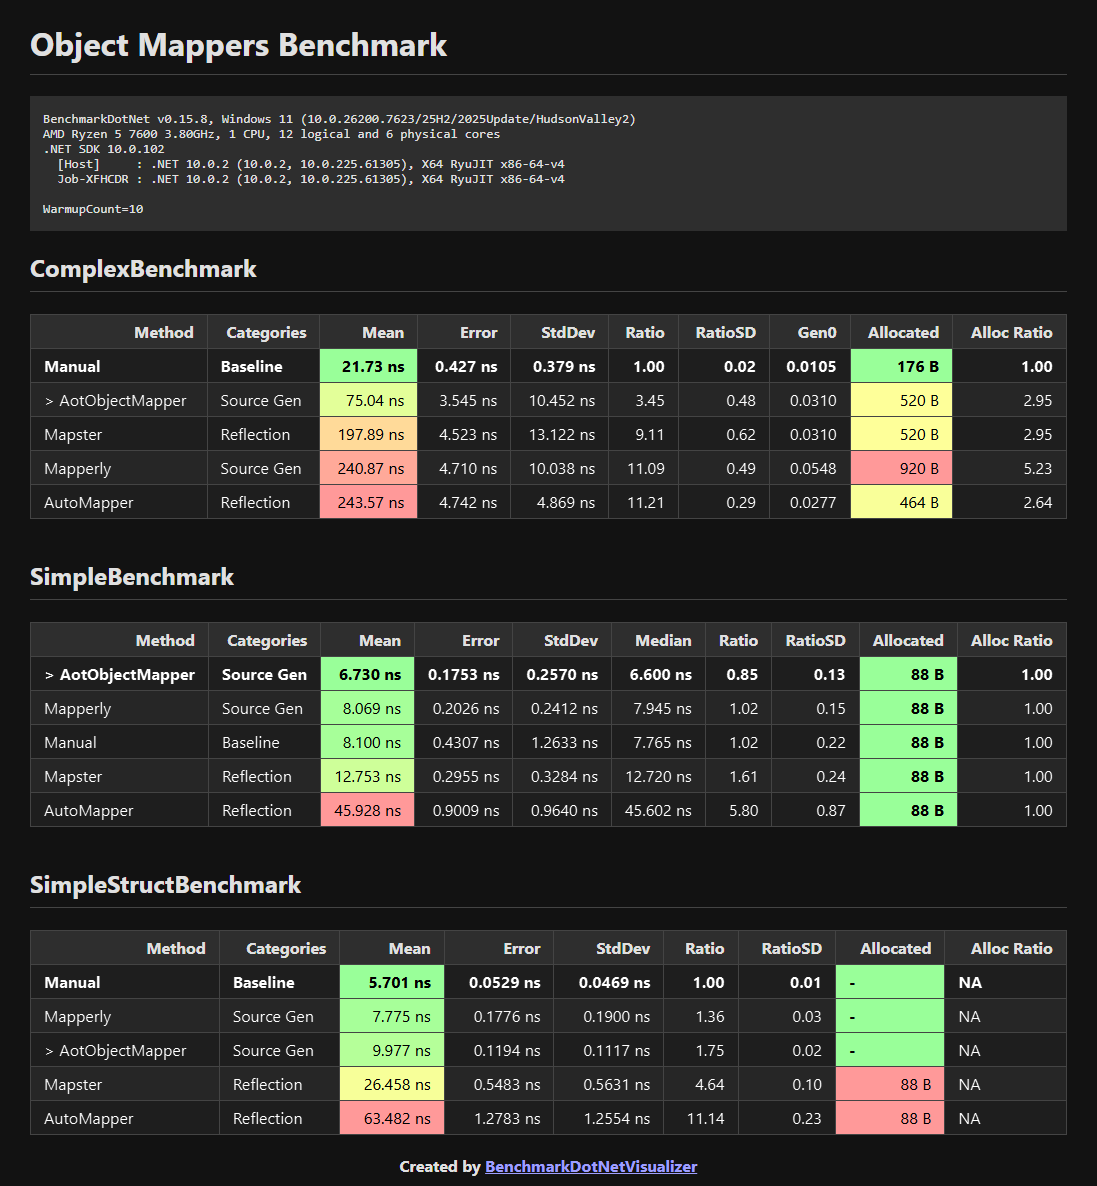
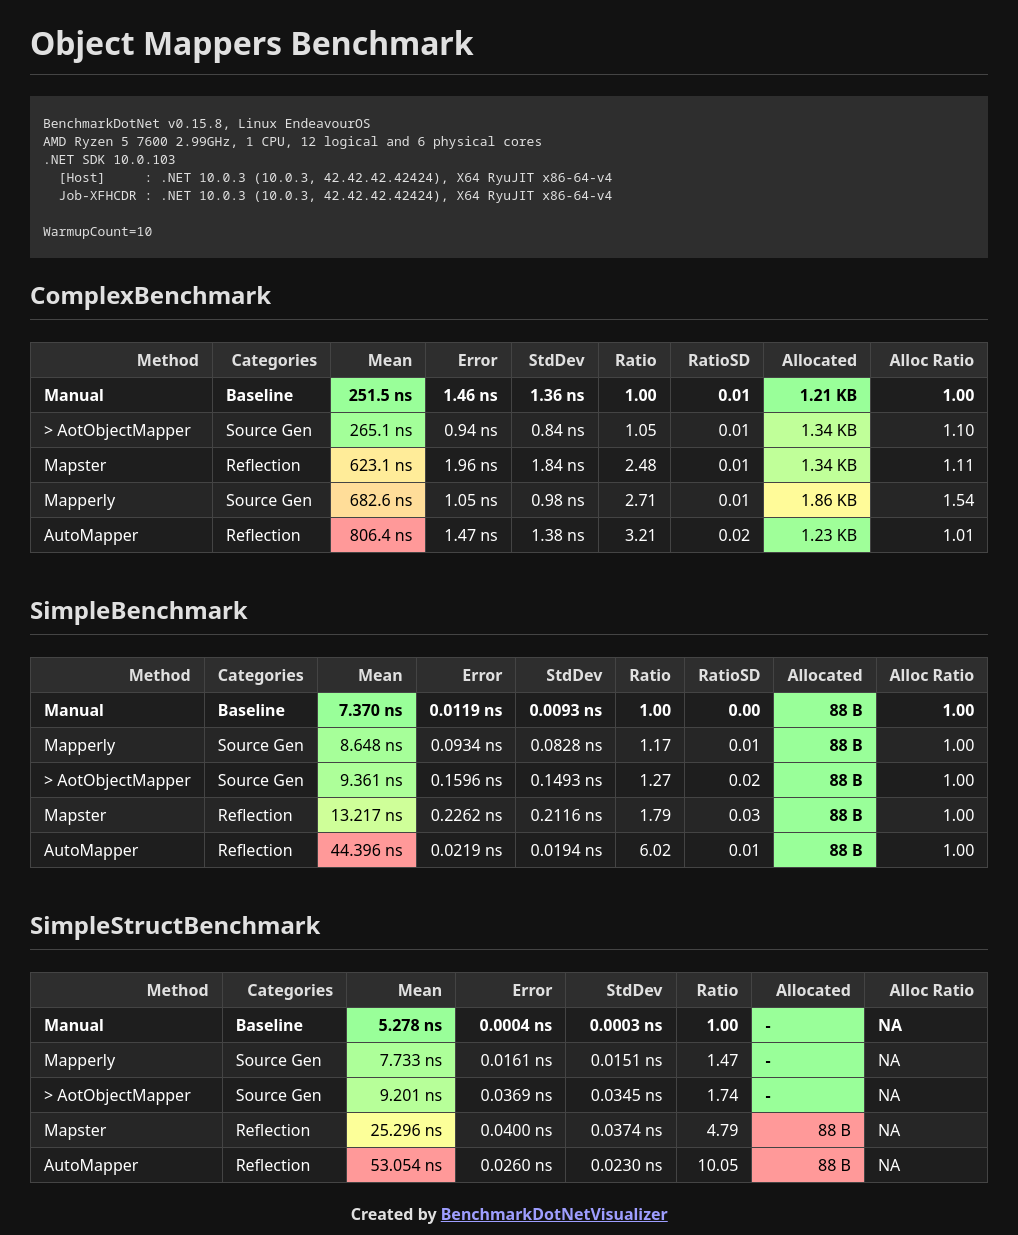
Update benchmarks (#42)
* Started updating benchmarks

* Remove unused constant from ComplexBenchmark.AOM implementation

* Remove Diagnostics.cs

* Update BenchmarkSummary.png

Changed region(s): [[0.0305, 0.468, 0.9745, 0.9983], [0.0305, 0.0, 0.9745, 0.468]]

diff --git a/Benchmarks/MappingBenchmarks/ComplexBenchmark.cs b/Benchmarks/MappingBenchmarks/ComplexBenchmark.cs
@@ -7,7 +7,7 @@ using MappingBenchmarks.Models;
 
 namespace MappingBenchmarks;
 
-[MemoryDiagnoser(displayGenColumns: true)]
+[MemoryDiagnoser(displayGenColumns: false)]
 [Orderer(SummaryOrderPolicy.FastestToSlowest)]
 [CategoriesColumn]
 public partial class ComplexBenchmark
@@ -28,23 +28,35 @@ public partial class ComplexBenchmark
                 Street = "Elm Street",
                 City = "Somewhere",
                 Country = "America",
-                Resident = null!,
             },
-            Employer = new Company()
-            {
-                Id = 5,
-                Name = "Company inc.",
-                Metadata = new CompanyMetadata()
-                {
-                    AnnualRevenue = 5,
-                    FoundedAt = new DateTime(2026, 1, 1, 0, 0, 0),
-                },
-                CEO = null!,
-            },
+            Employer = null!,
         };
 
-        _source.Address.Resident = _source;
-        _source.Employer.CEO = _source;
+        var company = new Company()
+        {
+            Id   = 5,
+            Name = "Company inc.",
+            Metadata =
+                new CompanyMetadata()
+                {
+                    AnnualRevenue = 5,
+                    FoundedAt     = new DateTime(2026, 1, 1, 0, 0, 0),
+                },
+            CEO = _source,
+        };
+
+        var secondAddress = new Address() { Street = "Main street", City = "Main city", Country = "Italy?" };
+
+        company.CEO      = _source;
+        _source.Employer = company;
+        company.Employees =
+        [
+            _source,
+            new Person { Id = 2, FirstName = "1", LastName = "1", Address = secondAddress, Employer  = company, },
+            new Person { Id = 3, FirstName = "2", LastName = "2", Address = secondAddress, Employer  = company, },
+            new Person { Id = 4, FirstName = "3", LastName = "3", Address = secondAddress, Employer  = company, },
+            new Person { Id = 5, FirstName = "4", LastName = "4", Address = secondAddress, Employer  = company, },
+        ];
 
         _mapperlyComplexMapper = new MapperlyComplexMapper();
         ConfigureAutoMapper();
@@ -54,12 +66,37 @@ public partial class ComplexBenchmark
 
         var jsonOpts = new JsonSerializerOptions() { WriteIndented = true, ReferenceHandler = ReferenceHandler.Preserve };
 
-        var manual   = JsonSerializer.Serialize(Manual(),          jsonOpts);
+        Console.WriteLine("Verifing mappers...");
+
+        var manual   = JsonSerializer.Serialize(Manual(), jsonOpts);
+#if Debug
+        Console.WriteLine("Manual:");
+        Console.WriteLine(manual);
+#endif
 
         var aot      = JsonSerializer.Serialize(AotObjectMapper(), jsonOpts);
-        var mapperly = JsonSerializer.Serialize(Mapperly(),        jsonOpts);
-        var auto     = JsonSerializer.Serialize(AutoMapper(),      jsonOpts);
-        var mapster     = JsonSerializer.Serialize(Mapster(),      jsonOpts);
+#if Debug
+        Console.WriteLine("aot:");
+        Console.WriteLine(aot);
+#endif
+
+        var mapperly = JsonSerializer.Serialize(Mapperly(), jsonOpts);
+#if Debug
+        Console.WriteLine("mapperly:");
+        Console.WriteLine(mapperly);
+#endif
+
+        var auto     = JsonSerializer.Serialize(AutoMapper(), jsonOpts);
+#if Debug
+        Console.WriteLine("auto:");
+        Console.WriteLine(auto);
+#endif
+
+        var mapster  = JsonSerializer.Serialize(Mapster(), jsonOpts);
+#if Debug
+        Console.WriteLine("mapster:");
+        Console.WriteLine(mapster);
+#endif
 
 #pragma warning disable LOCAT010
         if (aot != manual)

diff --git a/Benchmarks/MappingBenchmarks/ComplexBenchmark.AOM.cs b/Benchmarks/MappingBenchmarks/ComplexBenchmark.AOM.cs
@@ -5,39 +5,33 @@ using MappingBenchmarks.Models;
 
 namespace MappingBenchmarks;
 
-[GenerateMapper(MappingOptions.PreserveReferences)]
-[Map<Person, PersonDto>]
-[UseMap<AotObjectMapperCompanyMapper, Company, CompanyDto>]
-public partial class AotObjectMapperPersonMapper
-{
-    [ForMember<Person, PersonDto>(nameof(PersonDto.Street))]
-    public static string GetStreet(Person source) => source.Address.Street;
-
-    [ForMember<Person, PersonDto>(nameof(PersonDto.City))]
-    public static string GetCity(Person source) => source.Address.City;
-
-    [ForMember<Person, PersonDto>(nameof(PersonDto.Country))]
-    public static string GetCountry(Person source) => source.Address.Country;
-
-    [ForMember<Person, PersonDto>(nameof(PersonDto.FullName))]
-    public static string GetFullName(Person source) => $"{source.FirstName} {source.LastName}";
-}
-
-
-[GenerateMapper(MappingOptions.PreserveReferences)]
-[Map<Company, CompanyDto>]
-[UseMap<AotObjectMapperPersonMapper, Person, PersonDto>]
-public partial class AotObjectMapperCompanyMapper
-{
-    [ForMember<Company, CompanyDto>(nameof(CompanyDto.FoundedAt))]
-    public static DateTime GetFoundedAt(Company source) => source.Metadata.FoundedAt;
-
-    [ForMember<Company, CompanyDto>(nameof(CompanyDto.AnnualRevenue))]
-    public static decimal GetAnnualRevenue(Company source) => source.Metadata.AnnualRevenue;
-}
-
 public partial class ComplexBenchmark
 {
+    [GenerateMapper(MappingOptions.PreserveReferences)]
+    [Map<Person, PersonDto>]
+    [Map<Company, CompanyDto>]
+    public partial class AotObjectMapperPersonMapper
+    {
+        [ForMember<Person, PersonDto>(nameof(PersonDto.Street))]
+        public static string GetStreet(Person source) => source.Address.Street;
+
+        [ForMember<Person, PersonDto>(nameof(PersonDto.City))]
+        public static string GetCity(Person source) => source.Address.City;
+
+        [ForMember<Person, PersonDto>(nameof(PersonDto.Country))]
+        public static string GetCountry(Person source) => source.Address.Country;
+
+        [ForMember<Person, PersonDto>(nameof(PersonDto.FullName))]
+        public static string GetFullName(Person source) => $"{source.FirstName} {source.LastName}";
+
+
+        [ForMember<Company, CompanyDto>(nameof(CompanyDto.FoundedAt))]
+        public static DateTime GetFoundedAt(Company source) => source.Metadata.FoundedAt;
+
+        [ForMember<Company, CompanyDto>(nameof(CompanyDto.AnnualRevenue))]
+        public static decimal GetAnnualRevenue(Company source) => source.Metadata.AnnualRevenue;
+    }
+
     [Benchmark(Description = "> AotObjectMapper"), BenchmarkCategory("Source Gen"), WarmupCount(10)]
     public PersonDto AotObjectMapper()
     {

diff --git a/Benchmarks/MappingBenchmarks/ComplexBenchmark.Baseline.cs b/Benchmarks/MappingBenchmarks/ComplexBenchmark.Baseline.cs
@@ -5,27 +5,59 @@ namespace MappingBenchmarks;
 
 public partial class ComplexBenchmark
 {
+    public class ManualMapper
+    {
+        private Dictionary<object, object> _cache = [];
+
+        public PersonDto MapPerson(Person source)
+        {
+            if (_cache.TryGetValue(source, out var existing))
+                return (PersonDto)existing;
+
+            var dto = new PersonDto
+            {
+                Id       = source.Id,
+                FullName = $"{source.FirstName} {source.LastName}",
+                Street   = source.Address.Street,
+                City     = source.Address.City,
+                Country  = source.Address.Country
+            };
+
+            _cache[source] = dto;
+
+            dto.Employer = MapCompany(source.Employer);
+
+            return dto;
+        }
+
+        public CompanyDto MapCompany(Company source)
+        {
+            if (_cache.TryGetValue(source, out var existing))
+                return (CompanyDto)existing;
+
+            var dto = new CompanyDto
+            {
+                Id            = source.Id,
+                Name          = source.Name,
+                FoundedAt     = source.Metadata.FoundedAt,
+                AnnualRevenue = source.Metadata.AnnualRevenue
+            };
+
+            _cache[source] = dto;
+
+            dto.CEO = MapPerson(source.CEO);
+
+            dto.Employees = source.Employees.Select(MapPerson).ToArray();
+
+            return dto;
+        }
+    }
+
     [Benchmark(Baseline = true), BenchmarkCategory("Baseline"), WarmupCount(10)]
     public PersonDto Manual()
     {
-        var dto = new PersonDto
-        {
-            Id       = _source.Id,
-            FullName = $"{_source.FirstName} {_source.LastName}",
-            Street   = _source.Address.Street,
-            City     = _source.Address.City,
-            Country  = _source.Address.Country,
-            Employer = new CompanyDto()
-            {
-                Id            = _source.Employer.Id,
-                Name          = _source.Employer.Name,
-                AnnualRevenue = _source.Employer.Metadata.AnnualRevenue,
-                FoundedAt     = _source.Employer.Metadata.FoundedAt,
-                CEO           = null!,
-            },
-        };
-
-        dto.Employer.CEO = dto;
+        var mapper = new ManualMapper();
+        var dto = mapper.MapPerson(_source);
 
         _consumer.Consume(dto);
         return dto;

diff --git a/Benchmarks/MappingBenchmarks/Models/Complex.cs b/Benchmarks/MappingBenchmarks/Models/Complex.cs
@@ -25,9 +25,6 @@ public class Address
     public string Street  { get; set; } = string.Empty;
     public string City    { get; set; } = string.Empty;
     public string Country { get; set; } = string.Empty;
-
-    // Circular reference back to Person
-    public Person Resident { get; set; } = null!;
 }
 
 public class Company
@@ -40,6 +37,8 @@ public class Company
 
     // Circular reference back to Person
     public Person CEO { get; set; } = null!;
+
+    public IEnumerable<Person> Employees { get; set; } = null!;
 }
 
 public class CompanyMetadata
@@ -75,4 +74,6 @@ public class CompanyDto
     public decimal  AnnualRevenue { get; set; }
 
     public PersonDto CEO { get; set; } = null!;
+
+    public PersonDto[] Employees { get; set; } = null!;
 }

diff --git a/Benchmarks/MappingBenchmarks/ComplexBenchmark.Mapperly.cs b/Benchmarks/MappingBenchmarks/ComplexBenchmark.Mapperly.cs
@@ -12,6 +12,7 @@ public partial class MapperlyComplexMapper
     [MapProperty(nameof(@Person.Address.City),   nameof(PersonDto.City))]
     [MapProperty(nameof(@Person.Address.Country), nameof(PersonDto.Country))]
     public partial PersonDto MapPerson(Person source);
+
     public string CombineFullName(Person source) => $"{source.FirstName} {source.LastName}";
 
     [MapProperty(nameof(@Company.Metadata.FoundedAt),     nameof(CompanyDto.FoundedAt))]

diff --git a/Benchmarks/MappingBenchmarks/BenchmarkDotNet.Artifacts/results/MappingBenchmarks.SimpleBenchmark-report-github.md b/Benchmarks/MappingBenchmarks/BenchmarkDotNet.Artifacts/results/MappingBenchmarks.SimpleBenchmark-report-github.md
@@ -1,18 +1,18 @@
 ```
 
-BenchmarkDotNet v0.15.8, Windows 11 (10.0.26200.7623/25H2/2025Update/HudsonValley2)
-AMD Ryzen 5 7600 3.80GHz, 1 CPU, 12 logical and 6 physical cores
-.NET SDK 10.0.102
-  [Host]     : .NET 10.0.2 (10.0.2, 10.0.225.61305), X64 RyuJIT x86-64-v4
-  Job-XFHCDR : .NET 10.0.2 (10.0.2, 10.0.225.61305), X64 RyuJIT x86-64-v4
+BenchmarkDotNet v0.15.8, Linux EndeavourOS
+AMD Ryzen 5 7600 2.99GHz, 1 CPU, 12 logical and 6 physical cores
+.NET SDK 10.0.103
+  [Host]     : .NET 10.0.3 (10.0.3, 42.42.42.42424), X64 RyuJIT x86-64-v4
+  Job-XFHCDR : .NET 10.0.3 (10.0.3, 42.42.42.42424), X64 RyuJIT x86-64-v4
 
 WarmupCount=10  
 
 ```
-| Method              | Categories | Mean      | Error     | StdDev    | Median    | Ratio | RatioSD | Allocated | Alloc Ratio |
-|-------------------- |----------- |----------:|----------:|----------:|----------:|------:|--------:|----------:|------------:|
-| &#39;&gt; AotObjectMapper&#39; | Source Gen |  6.730 ns | 0.1753 ns | 0.2570 ns |  6.600 ns |  0.85 |    0.13 |      88 B |        1.00 |
-| Mapperly            | Source Gen |  8.069 ns | 0.2026 ns | 0.2412 ns |  7.945 ns |  1.02 |    0.15 |      88 B |        1.00 |
-| Manual              | Baseline   |  8.100 ns | 0.4307 ns | 1.2633 ns |  7.765 ns |  1.02 |    0.22 |      88 B |        1.00 |
-| Mapster             | Reflection | 12.753 ns | 0.2955 ns | 0.3284 ns | 12.720 ns |  1.61 |    0.24 |      88 B |        1.00 |
-| AutoMapper          | Reflection | 45.928 ns | 0.9009 ns | 0.9640 ns | 45.602 ns |  5.80 |    0.87 |      88 B |        1.00 |
+| Method              | Categories | Mean      | Error     | StdDev    | Ratio | RatioSD | Allocated | Alloc Ratio |
+|-------------------- |----------- |----------:|----------:|----------:|------:|--------:|----------:|------------:|
+| Manual              | Baseline   |  7.370 ns | 0.0119 ns | 0.0093 ns |  1.00 |    0.00 |      88 B |        1.00 |
+| Mapperly            | Source Gen |  8.648 ns | 0.0934 ns | 0.0828 ns |  1.17 |    0.01 |      88 B |        1.00 |
+| &#39;&gt; AotObjectMapper&#39; | Source Gen |  9.361 ns | 0.1596 ns | 0.1493 ns |  1.27 |    0.02 |      88 B |        1.00 |
+| Mapster             | Reflection | 13.217 ns | 0.2262 ns | 0.2116 ns |  1.79 |    0.03 |      88 B |        1.00 |
+| AutoMapper          | Reflection | 44.396 ns | 0.0219 ns | 0.0194 ns |  6.02 |    0.01 |      88 B |        1.00 |

diff --git a/Benchmarks/MappingBenchmarks/BenchmarkDotNet.Artifacts/results/MappingBenchmarks.ComplexBenchmark-report-github.md b/Benchmarks/MappingBenchmarks/BenchmarkDotNet.Artifacts/results/MappingBenchmarks.ComplexBenchmark-report-github.md
@@ -1,18 +1,18 @@
 ```
 
-BenchmarkDotNet v0.15.8, Windows 11 (10.0.26200.7623/25H2/2025Update/HudsonValley2)
-AMD Ryzen 5 7600 3.80GHz, 1 CPU, 12 logical and 6 physical cores
-.NET SDK 10.0.102
-  [Host]     : .NET 10.0.2 (10.0.2, 10.0.225.61305), X64 RyuJIT x86-64-v4
-  Job-XFHCDR : .NET 10.0.2 (10.0.2, 10.0.225.61305), X64 RyuJIT x86-64-v4
+BenchmarkDotNet v0.15.8, Linux EndeavourOS
+AMD Ryzen 5 7600 2.99GHz, 1 CPU, 12 logical and 6 physical cores
+.NET SDK 10.0.103
+  [Host]     : .NET 10.0.3 (10.0.3, 42.42.42.42424), X64 RyuJIT x86-64-v4
+  Job-XFHCDR : .NET 10.0.3 (10.0.3, 42.42.42.42424), X64 RyuJIT x86-64-v4
 
 WarmupCount=10  
 
 ```
-| Method              | Categories | Mean      | Error    | StdDev    | Ratio | RatioSD | Gen0   | Allocated | Alloc Ratio |
-|-------------------- |----------- |----------:|---------:|----------:|------:|--------:|-------:|----------:|------------:|
-| Manual              | Baseline   |  21.73 ns | 0.427 ns |  0.379 ns |  1.00 |    0.02 | 0.0105 |     176 B |        1.00 |
-| &#39;&gt; AotObjectMapper&#39; | Source Gen |  75.04 ns | 3.545 ns | 10.452 ns |  3.45 |    0.48 | 0.0310 |     520 B |        2.95 |
-| Mapster             | Reflection | 197.89 ns | 4.523 ns | 13.122 ns |  9.11 |    0.62 | 0.0310 |     520 B |        2.95 |
-| Mapperly            | Source Gen | 240.87 ns | 4.710 ns | 10.038 ns | 11.09 |    0.49 | 0.0548 |     920 B |        5.23 |
-| AutoMapper          | Reflection | 243.57 ns | 4.742 ns |  4.869 ns | 11.21 |    0.29 | 0.0277 |     464 B |        2.64 |
+| Method              | Categories | Mean     | Error   | StdDev  | Ratio | RatioSD | Allocated | Alloc Ratio |
+|-------------------- |----------- |---------:|--------:|--------:|------:|--------:|----------:|------------:|
+| Manual              | Baseline   | 251.5 ns | 1.46 ns | 1.36 ns |  1.00 |    0.01 |   1.21 KB |        1.00 |
+| &#39;&gt; AotObjectMapper&#39; | Source Gen | 265.1 ns | 0.94 ns | 0.84 ns |  1.05 |    0.01 |   1.34 KB |        1.10 |
+| Mapster             | Reflection | 623.1 ns | 1.96 ns | 1.84 ns |  2.48 |    0.01 |   1.34 KB |        1.11 |
+| Mapperly            | Source Gen | 682.6 ns | 1.05 ns | 0.98 ns |  2.71 |    0.01 |   1.86 KB |        1.54 |
+| AutoMapper          | Reflection | 806.4 ns | 1.47 ns | 1.38 ns |  3.21 |    0.02 |   1.23 KB |        1.01 |

diff --git a/Benchmarks/MappingBenchmarks/BenchmarkDotNet.Artifacts/results/MappingBenchmarks.SimpleStructBenchmark-report-github.md b/Benchmarks/MappingBenchmarks/BenchmarkDotNet.Artifacts/results/MappingBenchmarks.SimpleStructBenchmark-report-github.md
@@ -1,18 +1,18 @@
 ```
 
-BenchmarkDotNet v0.15.8, Windows 11 (10.0.26200.7623/25H2/2025Update/HudsonValley2)
-AMD Ryzen 5 7600 3.80GHz, 1 CPU, 12 logical and 6 physical cores
-.NET SDK 10.0.102
-  [Host]     : .NET 10.0.2 (10.0.2, 10.0.225.61305), X64 RyuJIT x86-64-v4
-  Job-XFHCDR : .NET 10.0.2 (10.0.2, 10.0.225.61305), X64 RyuJIT x86-64-v4
+BenchmarkDotNet v0.15.8, Linux EndeavourOS
+AMD Ryzen 5 7600 2.99GHz, 1 CPU, 12 logical and 6 physical cores
+.NET SDK 10.0.103
+  [Host]     : .NET 10.0.3 (10.0.3, 42.42.42.42424), X64 RyuJIT x86-64-v4
+  Job-XFHCDR : .NET 10.0.3 (10.0.3, 42.42.42.42424), X64 RyuJIT x86-64-v4
 
 WarmupCount=10  
 
 ```
-| Method              | Categories | Mean      | Error     | StdDev    | Ratio | RatioSD | Allocated | Alloc Ratio |
-|-------------------- |----------- |----------:|----------:|----------:|------:|--------:|----------:|------------:|
-| Manual              | Baseline   |  5.701 ns | 0.0529 ns | 0.0469 ns |  1.00 |    0.01 |         - |          NA |
-| Mapperly            | Source Gen |  7.775 ns | 0.1776 ns | 0.1900 ns |  1.36 |    0.03 |         - |          NA |
-| &#39;&gt; AotObjectMapper&#39; | Source Gen |  9.977 ns | 0.1194 ns | 0.1117 ns |  1.75 |    0.02 |         - |          NA |
-| Mapster             | Reflection | 26.458 ns | 0.5483 ns | 0.5631 ns |  4.64 |    0.10 |      88 B |          NA |
-| AutoMapper          | Reflection | 63.482 ns | 1.2783 ns | 1.2554 ns | 11.14 |    0.23 |      88 B |          NA |
+| Method              | Categories | Mean      | Error     | StdDev    | Ratio | Allocated | Alloc Ratio |
+|-------------------- |----------- |----------:|----------:|----------:|------:|----------:|------------:|
+| Manual              | Baseline   |  5.278 ns | 0.0004 ns | 0.0003 ns |  1.00 |         - |          NA |
+| Mapperly            | Source Gen |  7.733 ns | 0.0161 ns | 0.0151 ns |  1.47 |         - |          NA |
+| &#39;&gt; AotObjectMapper&#39; | Source Gen |  9.201 ns | 0.0369 ns | 0.0345 ns |  1.74 |         - |          NA |
+| Mapster             | Reflection | 25.296 ns | 0.0400 ns | 0.0374 ns |  4.79 |      88 B |          NA |
+| AutoMapper          | Reflection | 53.054 ns | 0.0260 ns | 0.0230 ns | 10.05 |      88 B |          NA |
